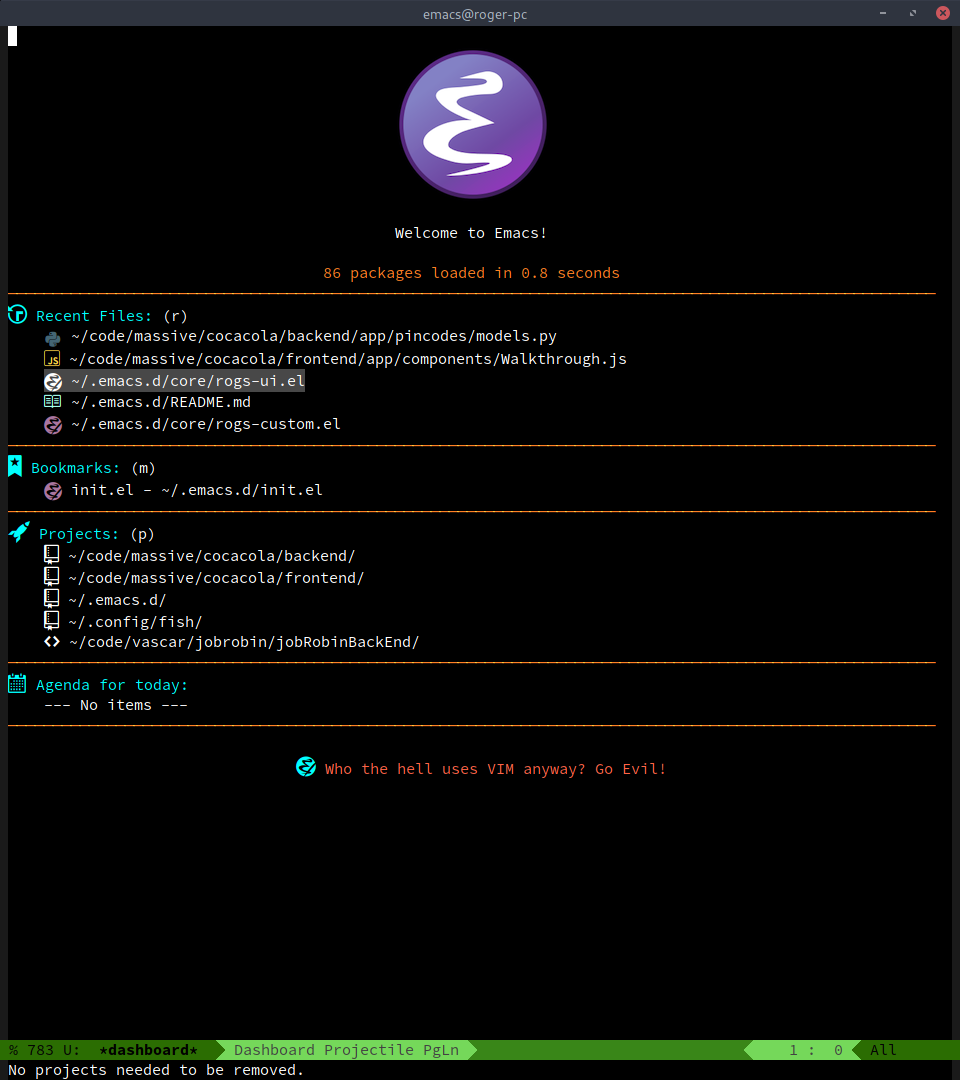
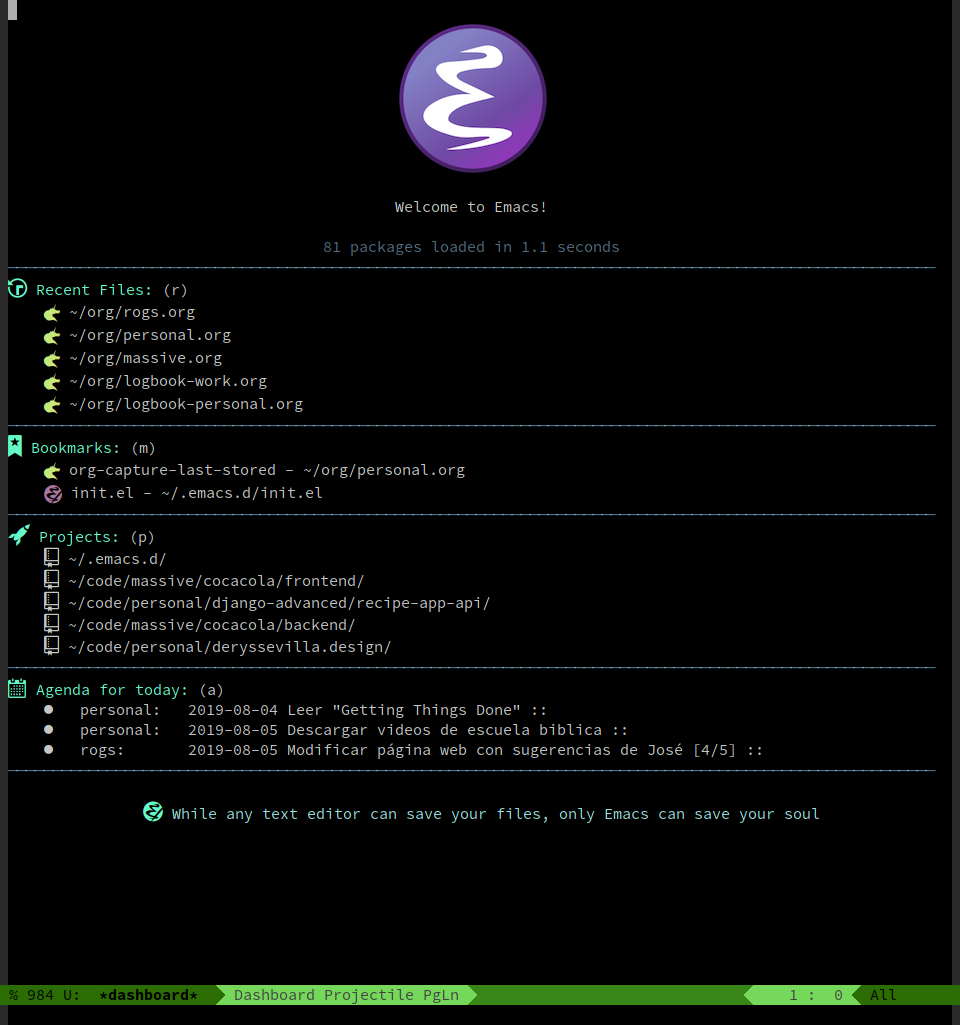
Changed theme to "Bliss", easier on the eyes

diff --git a/README.md b/README.md
@@ -35,6 +35,6 @@ My .emacs file
 * Some basic configurations
 
 ## My Theme:
-* [Reverse](https://github.com/syohex/emacs-reverse-theme)
+* [Bliss](https://github.com/emacsfodder/emacs-bliss-theme/blob/master/bliss-theme.el)
 
 Feel free to check, use, copy and distribute this `init.el`. I'll try to update regularly
